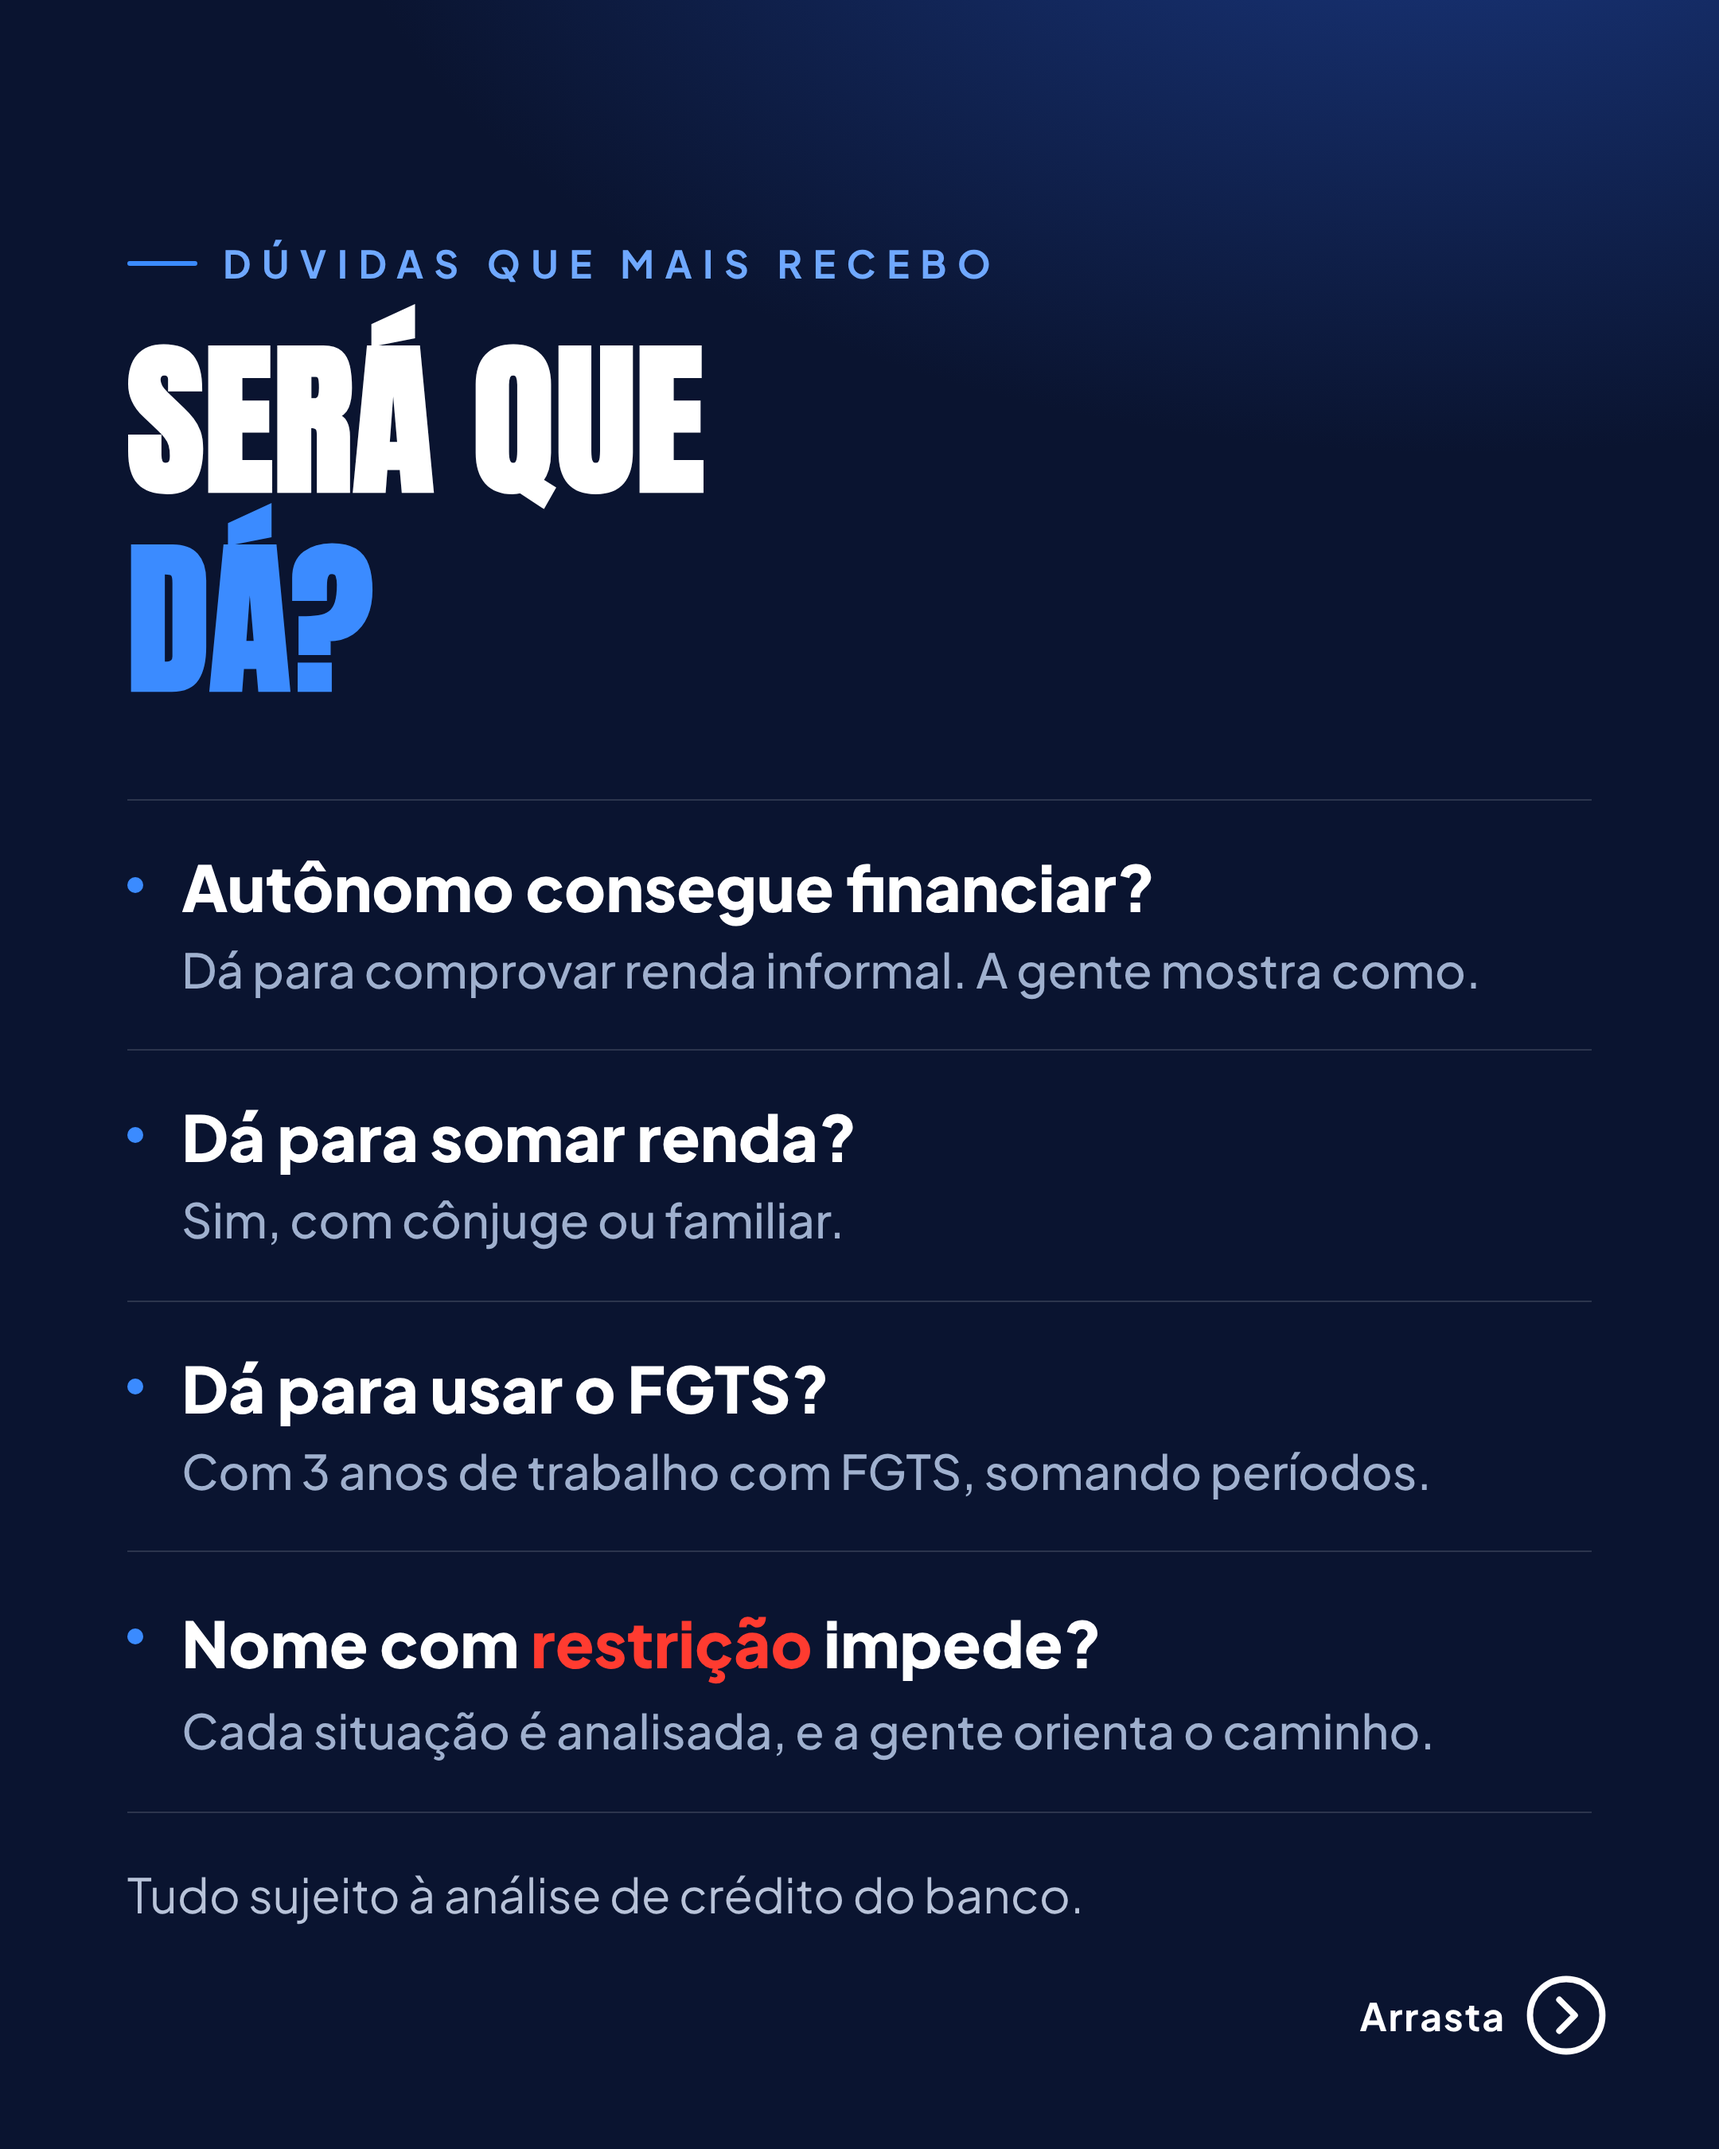
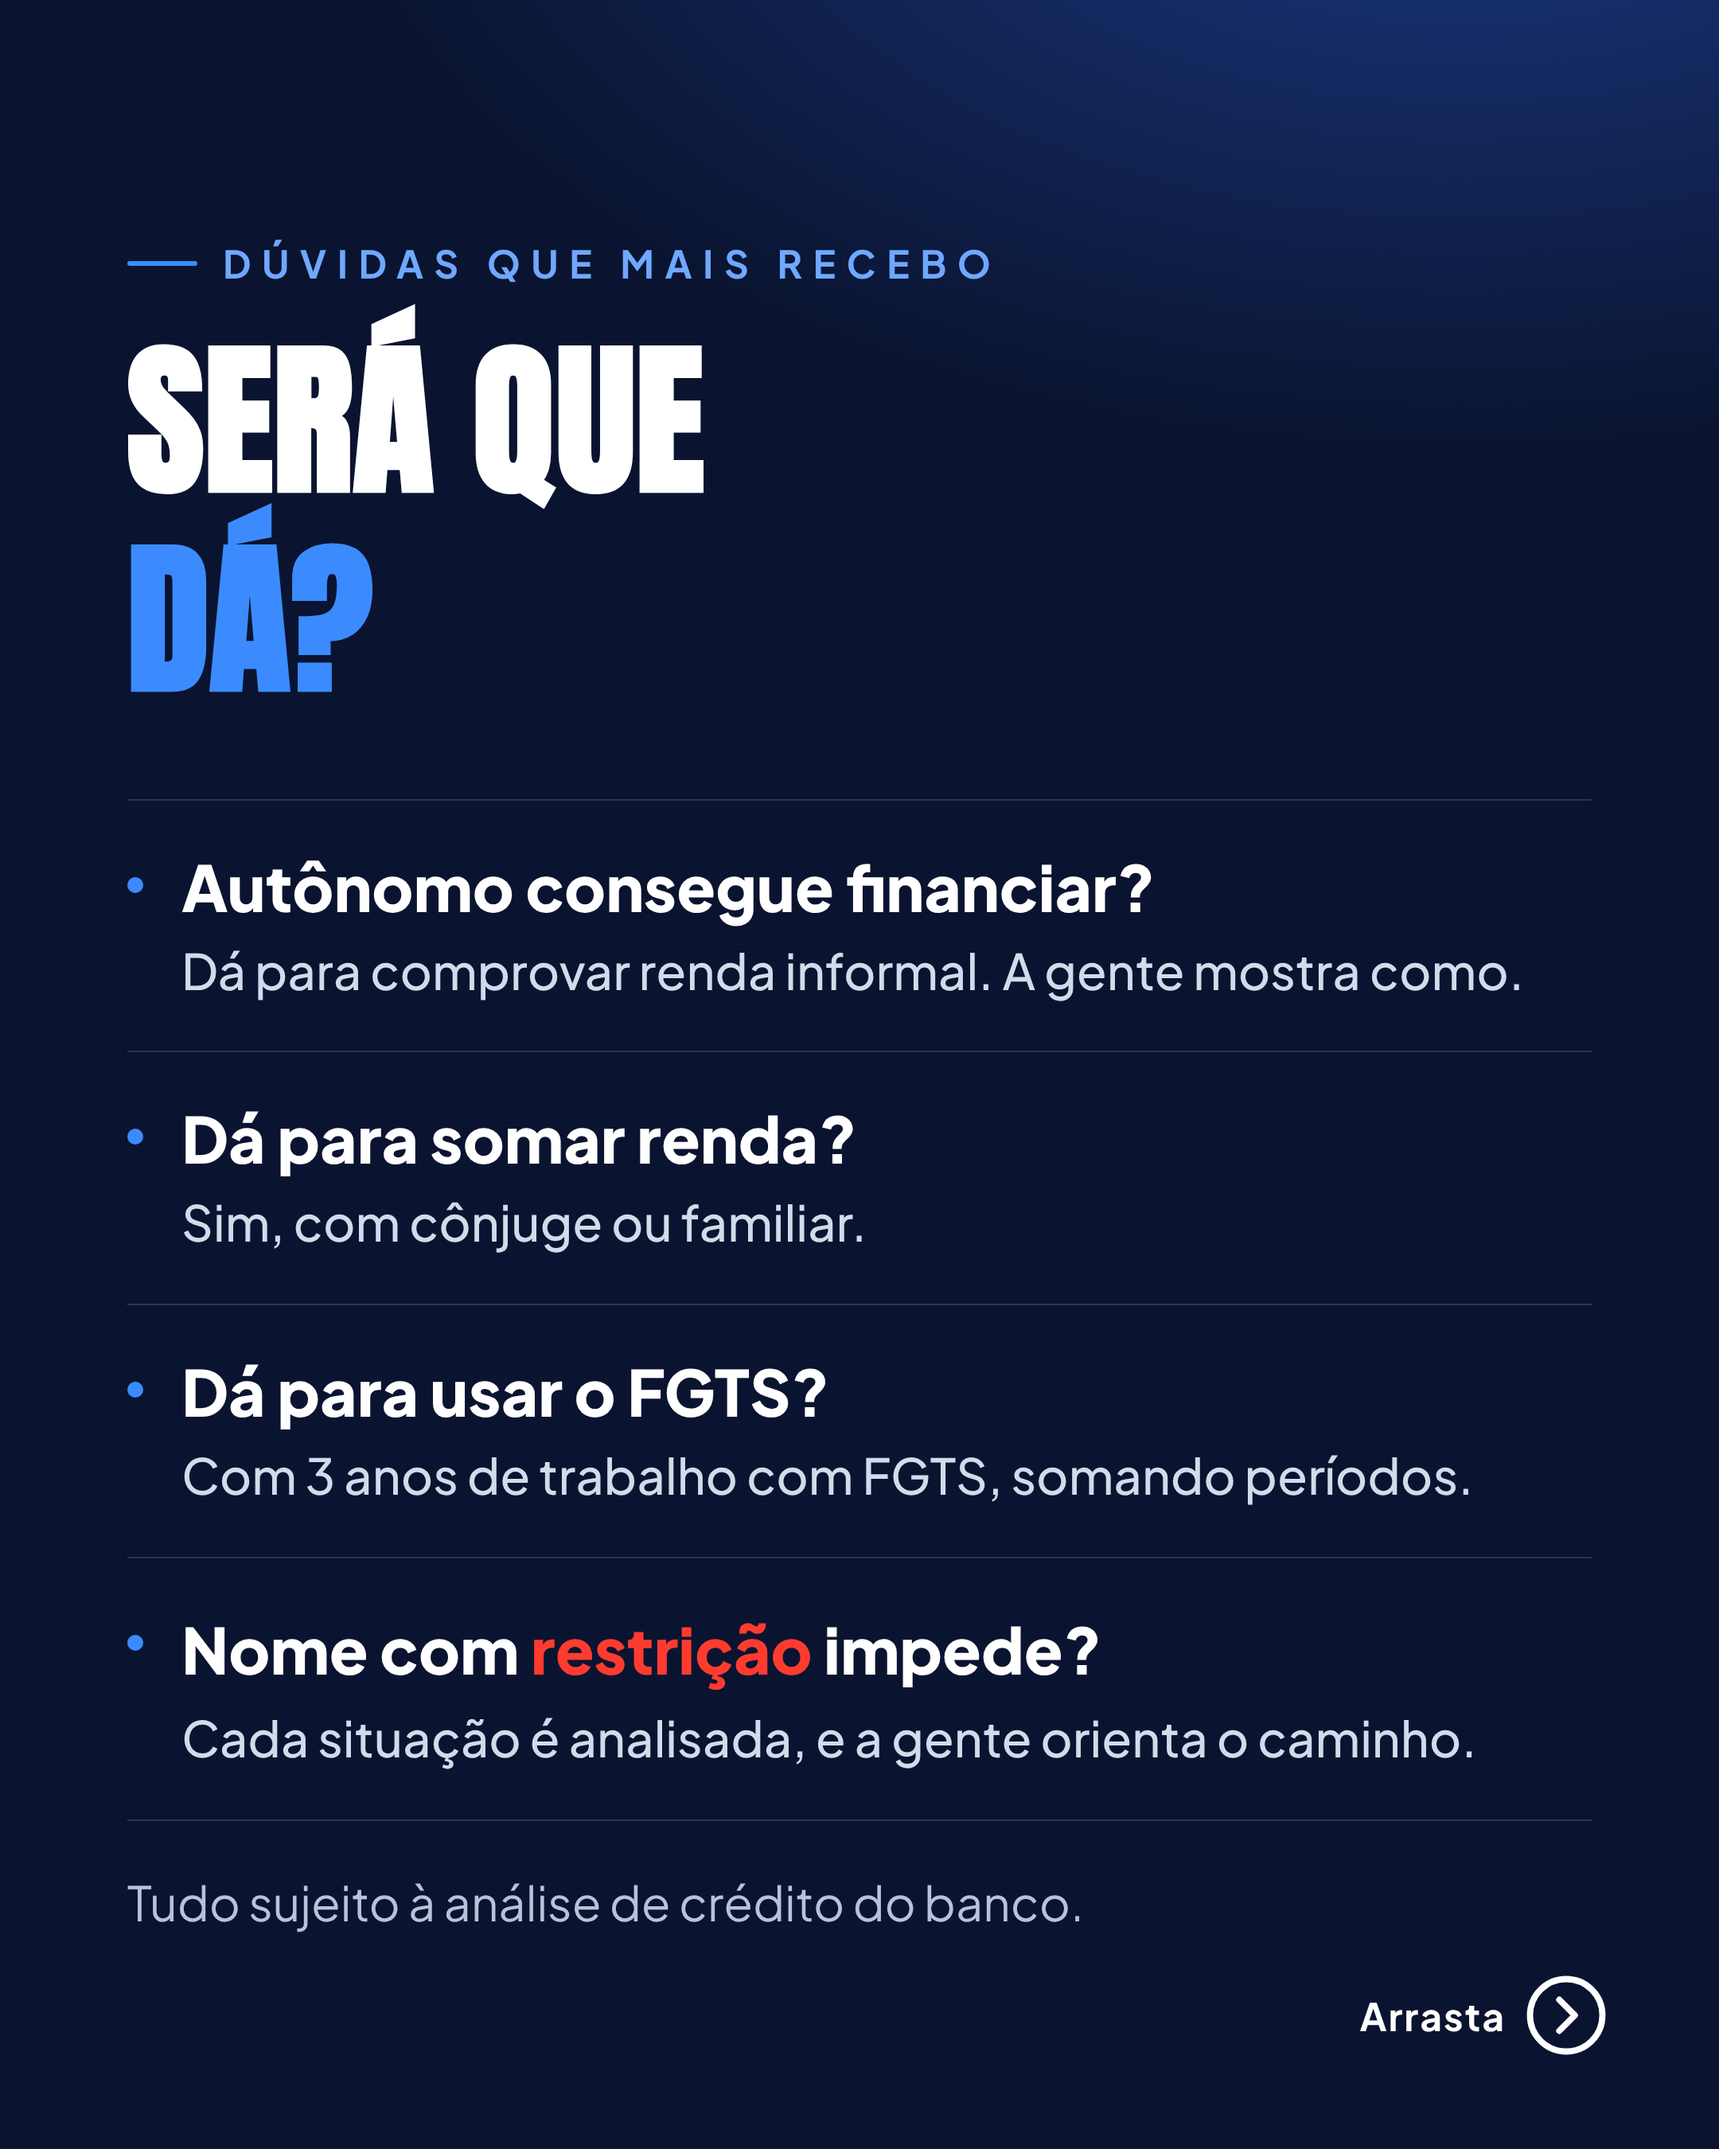
docs(posicionamento): ajustes do gestor no anúncio — passo do formulário, contraste dos subtítulos e 'Exemplo' na capa B
Claude-Session: https://claude.ai/code/session_018X91MFfPMRMPYSAfb3KdfT

diff --git a/docs/posicionamento/carrosseis/2026-10-12-anuncio-aluguel/laminas.html b/docs/posicionamento/carrosseis/2026-10-12-anuncio-aluguel/laminas.html
@@ -70,7 +70,7 @@
   .faq div { padding:30px 0 30px 34px; border-bottom:1.5px solid var(--linha); position:relative; }
   .faq div::before { content:""; position:absolute; left:0; top:48px; width:10px; height:10px; border-radius:50%; background:var(--azul); }
   .faq b { display:block; font-size:40px; font-weight:800; line-height:1.2; }
-  .faq span { display:block; font-size:30px; color:#9FB0CE; margin-top:8px; font-weight:500; line-height:1.35; }
+  .faq span { display:block; font-size:31px; color:#D3DBEA; margin-top:8px; font-weight:500; line-height:1.35; }
   .faq b .neg { display:inline; font-size:inherit; color:var(--verm); margin:0; font-weight:800; }
   /* 6 como funciona */
   .passos { margin-top:64px; position:relative; }
@@ -79,7 +79,7 @@
   .passo .n { width:120px; height:120px; border-radius:50%; background:var(--navy); border:3px solid var(--azul); display:grid; place-items:center; font-family:Anton, sans-serif; font-size:64px; color:var(--azul); flex-shrink:0; }
   .passo:last-child .n { background:var(--azul); color:#fff; }
   .passo b { display:block; font-size:46px; font-weight:800; line-height:1.15; }
-  .passo span { display:block; font-size:32px; color:#9FB0CE; margin-top:8px; font-weight:500; }
+  .passo span { display:block; font-size:33px; color:#D3DBEA; margin-top:8px; font-weight:500; }
   .selos { display:flex; gap:18px; flex-wrap:wrap; margin-top:30px; }
   .selos span { display:inline-flex; align-items:center; gap:10px; border:2px solid var(--azul); border-radius:999px; padding:18px 32px; font-size:34px; font-weight:800; }
   .selos svg { width:30px; height:30px; stroke:var(--azul2); stroke-width:2.4; }
@@ -87,7 +87,7 @@
   .conf { display:flex; gap:24px; align-items:center; margin-top:44px; padding:30px 34px; border-radius:24px; background:rgba(59,139,255,.10); border:1.5px solid rgba(59,139,255,.35); }
   .conf svg { width:56px; height:56px; stroke:var(--azul2); stroke-width:1.8; flex-shrink:0; }
   .conf b { display:block; font-size:34px; font-weight:800; }
-  .conf span { display:block; font-size:28px; line-height:1.3; color:#9FB0CE; margin-top:6px; }
+  .conf span { display:block; font-size:29px; line-height:1.3; color:#D3DBEA; margin-top:6px; }
   /* 7 cta */
   .cta .fundo { position:absolute; inset:0; background:radial-gradient(900px 800px at 70% 45%, #1E4AA8 0%, rgba(30,74,168,0) 70%); }
   .cta .pessoa { position:absolute; right:-210px; bottom:0; height:1060px; filter:drop-shadow(0 30px 60px rgba(0,0,0,.45)); }
@@ -231,9 +231,8 @@
     <h2 class="cond titulo">Simples <em>assim</em></h2>
     <div class="passos">
       <div class="passo"><span class="n">1</span><p><b>Você chama no WhatsApp</b><span>Toque em “Enviar mensagem”</span></p></div>
-      <div class="passo"><span class="n">2</span><p><b>A equipe analisa o seu perfil</b><span>Renda, FGTS e o que você procura</span></p></div>
-      <div class="passo"><span class="n">3</span><p><b>Você recebe a simulação em PDF</b>
-        <span>Valor, parcela, taxa de juros e benefícios</span></p></div>
+      <div class="passo"><span class="n">2</span><p><b>Preenche um formulário rápido</b><span>Menos de 2 minutos, pelo celular</span></p></div>
+      <div class="passo"><span class="n">3</span><p><b>Recebe sua simulação em PDF</b><span>A equipe analisa e envia valor, parcela, taxa de juros e benefícios</span></p></div>
     </div>
     <div class="conf"><svg viewBox="0 0 24 24"><path d="M20 13c0 5-3.5 7.5-7.66 8.95a1 1 0 0 1-.67-.01C7.5 20.5 4 18 4 13V6a1 1 0 0 1 1-1c2 0 4.5-1.2 6.24-2.72a1.17 1.17 0 0 1 1.52 0C14.51 3.81 17 5 19 5a1 1 0 0 1 1 1z" /> <path d="m9 12 2 2 4-4" /></svg><p><b>Gratuito e sem compromisso</b><span>Matheus Machado · Corretor · CRECI 323106-F</span></p></div>
   </div>
